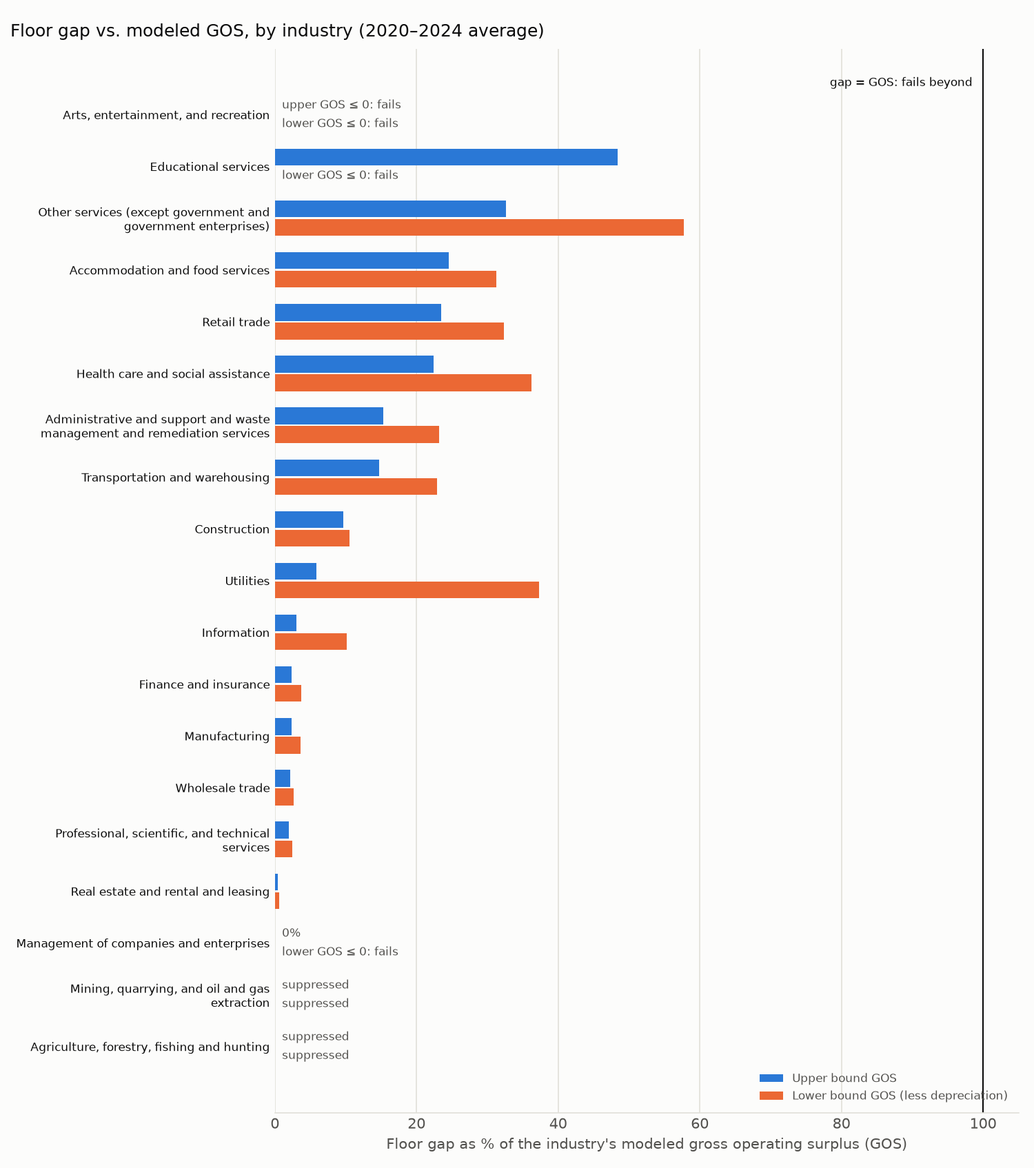
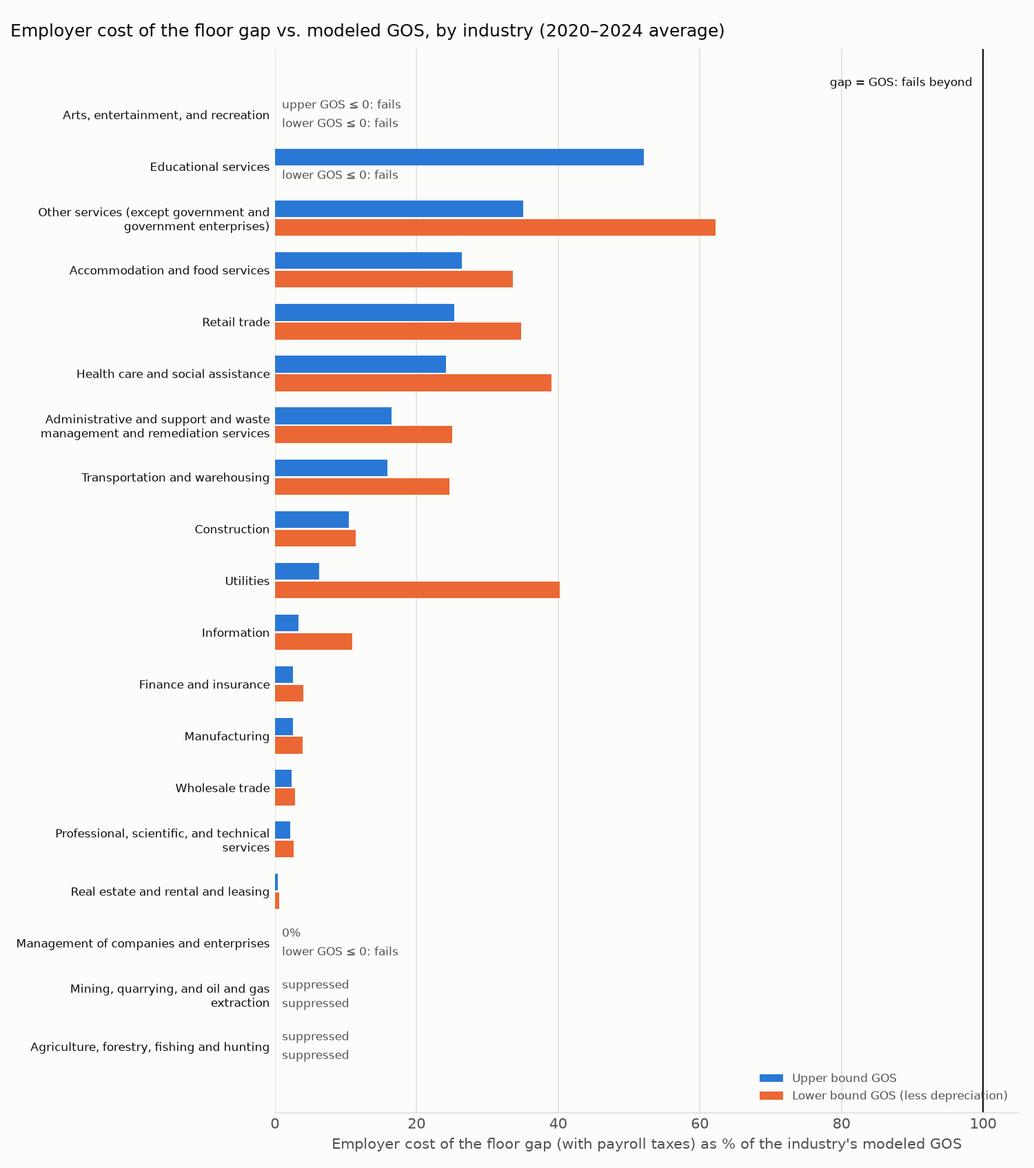
capacity: compare employer cost (gap + employer payroll taxes) with GDP, compensation and GOS
Compensation and GOS both include the employer's Social Security and Medicare
share, so a raise costs employers gap * (1 + capacity.employer_payroll_tax_rate).
Applied to the GDP/compensation/GOS ratios, the self-funding test, the GOS tests,
and the price pass-through. The wage-disbursement ratio and the worker gaps stay
unloaded. No pass/fail result changes.

Claude-Session: https://claude.ai/code/session_01WkMnkM78V3hXWVEUPjjTwT

diff --git a/src/nola_lw/report/results.py b/src/nola_lw/report/results.py
@@ -108,17 +108,20 @@ def headline(ctx: dict) -> tuple[str, list[str]]:
             f"workers whose job is in Orleans Parish ({f.pct(*ps['share_below'])}) earned less than the MIT living-wage "
             f"floor ({_household_label(cfg['mit']['floor_type'])}), ${ctx['floor']:.2f} an hour in {charts.price_month(cfg)} dollars. "
             f"Raising each of them to that floor for the hours they actually work would cost {f.usd(*ps['total_gap'])} "
-            f"a year. That is {f.pct(tot['gap_gdp'], tot['gap_gdp_se'])} of Orleans GDP, "
-            f"{f.pct(tot['gap_comp'], tot['gap_comp_se'])} of employee compensation and "
-            f"{f.pct(tot['gap_wages'], tot['gap_wages_se'])} of wage and salary disbursements. "
+            f"a year, {f.pct(tot['gap_wages'], tot['gap_wages_se'])} of wage and salary disbursements. With the "
+            f"employer's share of payroll taxes ({cfg['capacity']['employer_payroll_tax_rate']:.2%}), the cost to "
+            f"employers is {f.usd(tot['cost'], tot['cost_se'])} a year: "
+            f"{f.pct(tot['gap_gdp'], tot['gap_gdp_se'])} of Orleans GDP and "
+            f"{f.pct(tot['gap_comp'], tot['gap_comp_se'])} of employee compensation. "
+            f"Every comparison below uses that employer cost. "
             f"Against modeled gross operating surplus (GOS, upper bound; lower bound nets out depreciation): "
-            f"(a) the private and nonprofit gap is {f.pct(*gt['private_upper'])} of private-industry GOS "
-            f"({f.pct(*gt['private_lower'])} at the lower bound), and (b) the all-sector gap is "
+            f"(a) the private and nonprofit employer cost is {f.pct(*gt['private_upper'])} of private-industry GOS "
+            f"({f.pct(*gt['private_lower'])} at the lower bound), and (b) the all-sector employer cost is "
             f"{f.pct(*gt['total_upper'])} of total GOS ({f.pct(*gt['total_lower'])} at the lower bound). "
             f"Excluding {labels[cfg['capacity']['imputed_rent_line']].lower()}, whose GOS includes imputed rent on "
             f"owner-occupied housing, (b) is {f.pct(*gt['total_upper_ex'])} ({f.pct(*gt['total_lower_ex'])} at the "
             f"lower bound). "
-            f"The government workers' gap would be a {f.pct(*gt['government'])} raise to government compensation. ")
+            f"The government workers' employer cost would be a {f.pct(*gt['government'])} raise to government compensation. ")
 
     fails = _failures(cap, labels)
     if fails:
@@ -139,7 +142,7 @@ def headline(ctx: dict) -> tuple[str, list[str]]:
                 mark += "[^gos-low]"
             which = {"both": "both bounds", "upper": "upper bound only", "lower": "lower bound only"}[bound]
             items.append(f"{labels[line]} ({which}){mark}")
-        text += (f"By the self-funding test (an industry fails when its gap exceeds its own GOS), "
+        text += (f"By the self-funding test (an industry fails when its employer cost exceeds its own GOS), "
                  f"{len(fails)} {'industry fails' if len(fails) == 1 else 'industries fail'}: {_join(items)}. ")
         if neg_low:
             gaps = "; ".join(f"{labels[ln]} gap {f.usd(_row(cap, 'line', ln)['gap'])}" for ln in neg_low)
@@ -151,7 +154,7 @@ def headline(ctx: dict) -> tuple[str, list[str]]:
     for line in cfg["report"]["spec_expected_fail"]:
         r = _row(cap, "line", line)
         if r is not None and r["self_funding"] == "pass" and r["self_funding_low"] == "pass":
-            text += (f"{labels[line]}, which SPEC §6 expected to fail, passes both bounds: its gap is "
+            text += (f"{labels[line]}, which SPEC §6 expected to fail, passes both bounds: its employer cost is "
                      f"{f.pct(r['gap_gos'], r['gap_gos_se'])} of its upper-bound GOS and "
                      f"{f.pct(r['gap_gos_low'], r['gap_gos_low_se'])} of its lower bound. ")
     supp = [labels[ln] for ln in labels if (r := _row(cap, "line", ln)) and r["self_funding"] == "suppressed"]
@@ -246,20 +249,24 @@ def _tables(ctx: dict) -> str:
 
     def rat(r, c):
         return f.pct(r[c], r[f"{c}_se"])
-    rows = [["All-sector gap ÷ GDP", rat(tp, "gap_gdp"), rat(ts, "gap_gdp")],
-            ["All-sector gap ÷ employee compensation", rat(tp, "gap_comp"), rat(ts, "gap_comp")],
+    rows = [["All-sector employer cost ÷ GDP", rat(tp, "gap_gdp"), rat(ts, "gap_gdp")],
+            ["All-sector employer cost ÷ employee compensation", rat(tp, "gap_comp"), rat(ts, "gap_comp")],
             ["All-sector gap ÷ wage and salary disbursements", rat(tp, "gap_wages"), rat(ts, "gap_wages")]]
-    for key, name in [("private_upper", "(a) Private + nonprofit gap ÷ private GOS, upper bound"),
-                      ("private_lower", "(a) Private + nonprofit gap ÷ private GOS, lower bound"),
-                      ("total_upper", "(b) All-sector gap ÷ total GOS, upper bound"),
-                      ("total_lower", "(b) All-sector gap ÷ total GOS, lower bound"),
+    for key, name in [("private_upper", "(a) Private + nonprofit employer cost ÷ private GOS, upper bound"),
+                      ("private_lower", "(a) Private + nonprofit employer cost ÷ private GOS, lower bound"),
+                      ("total_upper", "(b) All-sector employer cost ÷ total GOS, upper bound"),
+                      ("total_lower", "(b) All-sector employer cost ÷ total GOS, lower bound"),
                       ("private_upper_ex", f"(a) excluding {rent_label}, upper bound"),
                       ("private_lower_ex", f"(a) excluding {rent_label}, lower bound"),
                       ("total_upper_ex", f"(b) excluding {rent_label}, upper bound"),
                       ("total_lower_ex", f"(b) excluding {rent_label}, lower bound"),
-                      ("government", "Government gap ÷ government compensation")]:
+                      ("government", "Government employer cost ÷ government compensation")]:
         rows.append([name, *_two(f.pct, p["gos_tests"], s["gos_tests"], key)])
     out.append(_table(["Ratio", yp, ys], rows))
+    out.append(f"\nEmployer cost is the gap plus the employer's share of payroll taxes "
+               f"({cfg['capacity']['employer_payroll_tax_rate']:.2%}); GDP, compensation and GOS all include those taxes. "
+               "Wage and salary disbursements do not, so that row uses the gap alone. Rows (a), (b) and government use "
+               "employer cost.\n")
     out.append(f"\n\"Excluding {rent_label}\" removes that industry's gap from the numerator and its GOS from the "
                "denominator: its GOS includes imputed rent on owner-occupied housing.\n")
     out.append(f"\nBEA denominators (average year, {charts.price_month(cfg)} dollars; place of work):\n")
@@ -276,7 +283,8 @@ def _tables(ctx: dict) -> str:
 
     # 4. industries
     out.append("\n## 4. Industries and the self-funding test\n")
-    out.append("An industry fails when its gap exceeds its own modeled GOS. The government line is excluded from "
+    out.append("An industry fails when its employer cost (gap plus employer payroll taxes) exceeds its own modeled GOS. "
+               "The ÷ columns use employer cost. The government line is excluded from "
                "the test (\"n/a\"; its BEA GOS is only depreciation) but its gap and gap ÷ compensation (payroll "
                "share) are shown.\n\n")
     rows = []

diff --git a/src/nola_lw/analysis/capacity.py b/src/nola_lw/analysis/capacity.py
@@ -174,28 +174,29 @@ def gap_by_line(u: pl.DataFrame, cfg) -> pl.DataFrame:
     return pl.concat([by_line, extra])
 
 
-def capacity_table(gap_by_line: pl.DataFrame, panel_mean: pl.DataFrame, gov_line: str) -> pl.DataFrame:
-    """One row per line: gap, gap_se, gdp, comp, gos, gos_low, gap_gdp/comp/gos/gos_low/wages (each
-    with its own _se = gap_se/denominator; null, not inf or sign-inverted, when the denominator is
-    <= 0), and self_funding / self_funding_low in {"pass", "fail", "suppressed", "no sample",
-    "n/a" (`gov_line`)}. "no sample" means no PUMS-observed gap for that line (a null after the
-    join), distinct from "suppressed" (a null GOS from a flagged BEA cell)."""
-    df = panel_mean.join(gap_by_line, on="line", how="left")
+def capacity_table(gap_by_line: pl.DataFrame, panel_mean: pl.DataFrame, gov_line: str,
+                   load: float = 0.0) -> pl.DataFrame:
+    """One row per line: gap, gap_se, cost (= gap * (1 + `load`), the employer's cost including its
+    payroll taxes, `capacity.employer_payroll_tax_rate`), gdp, comp, gos, gos_low,
+    gap_gdp/comp/gos/gos_low (cost / denominator, since compensation and GOS both include employer
+    payroll taxes) and gap_wages (gap / wages, since wages exclude them), each with its own _se;
+    null, not inf or sign-inverted, when the denominator is <= 0. self_funding / self_funding_low
+    in {"pass", "fail", "suppressed", "no sample", "n/a" (`gov_line`)} compare cost with GOS.
+    "no sample" means no PUMS-observed gap for that line (a null after the join), distinct from
+    "suppressed" (a null GOS from a flagged BEA cell)."""
+    df = panel_mean.join(gap_by_line, on="line", how="left").with_columns(
+        cost=pl.col("gap") * (1 + load), cost_se=pl.col("gap_se") * (1 + load))
 
-    def ratio(denom_col: str) -> pl.Expr:
+    def ratio(num: str, denom_col: str) -> pl.Expr:
         valid = pl.col(denom_col) > 0
-        return pl.when(valid).then(pl.col("gap") / pl.col(denom_col)).otherwise(None)
-
-    def ratio_se(denom_col: str) -> pl.Expr:
-        valid = pl.col(denom_col) > 0
-        return pl.when(valid).then(pl.col("gap_se") / pl.col(denom_col)).otherwise(None)
+        return pl.when(valid).then(pl.col(num) / pl.col(denom_col)).otherwise(None)
 
     df = df.with_columns(
-        gap_gdp=ratio("gdp"), gap_gdp_se=ratio_se("gdp"),
-        gap_comp=ratio("comp"), gap_comp_se=ratio_se("comp"),
-        gap_gos=ratio("gos"), gap_gos_se=ratio_se("gos"),
-        gap_gos_low=ratio("gos_low"), gap_gos_low_se=ratio_se("gos_low"),
-        gap_wages=ratio("wages"), gap_wages_se=ratio_se("wages"),
+        gap_gdp=ratio("cost", "gdp"), gap_gdp_se=ratio("cost_se", "gdp"),
+        gap_comp=ratio("cost", "comp"), gap_comp_se=ratio("cost_se", "comp"),
+        gap_gos=ratio("cost", "gos"), gap_gos_se=ratio("cost_se", "gos"),
+        gap_gos_low=ratio("cost", "gos_low"), gap_gos_low_se=ratio("cost_se", "gos_low"),
+        gap_wages=ratio("gap", "wages"), gap_wages_se=ratio("gap_se", "wages"),
     )
 
     def _status(gos_col: str) -> pl.Expr:
@@ -203,7 +204,7 @@ def capacity_table(gap_by_line: pl.DataFrame, panel_mean: pl.DataFrame, gov_line
                   .when(pl.col("gap").is_null()).then(pl.lit("no sample"))
                   .when(pl.col(gos_col).is_null()).then(pl.lit("suppressed"))
                   .when(pl.col("gap") == 0).then(pl.lit("pass"))  # nothing to fund, whatever the GOS
-                  .when(pl.col("gap") <= pl.col(gos_col)).then(pl.lit("pass"))
+                  .when(pl.col("cost") <= pl.col(gos_col)).then(pl.lit("pass"))
                   .otherwise(pl.lit("fail")))
     return df.with_columns(self_funding=_status("gos"), self_funding_low=_status("gos_low"))
 
@@ -213,8 +214,10 @@ def gos_tests(u: pl.DataFrame, panel_mean: pl.DataFrame, cfg) -> dict[str, tuple
     (upper, lower); government gap / government (`crosswalk.gov_line`) compensation; and "*_ex" for
     (a), (b) with the `capacity.imputed_rent_line` (real estate, whose GOS includes imputed rent on
     owner-occupied housing) removed from both gap and GOS. Each ratio is null (not inf or
-    sign-inverted) when its denominator is null or <= 0."""
+    sign-inverted) when its denominator is null or <= 0. Each numerator is the employer's cost, the
+    gap * (1 + `capacity.employer_payroll_tax_rate`)."""
     gov_line, rent_line = cfg["crosswalk"]["gov_line"], cfg["capacity"]["imputed_rent_line"]
+    load = 1 + cfg["capacity"]["employer_payroll_tax_rate"]
 
     def denom(line: str, col: str, ex: bool = False) -> float | None:
         d = panel_mean.filter(pl.col("line") == line)[col][0]
@@ -227,7 +230,7 @@ def gos_tests(u: pl.DataFrame, panel_mean: pl.DataFrame, cfg) -> dict[str, tuple
         if d is None or d <= 0:
             return None, None
         est, se = est_se
-        return est / d, se / d
+        return est * load / d, se * load / d
 
     private_gap = floor_summary(u.filter(pl.col("cow_class").is_in(_private_classes(cfg))))["total_gap"]
     total_gap = floor_summary(u)["total_gap"]

diff --git a/tests/test_capacity.py b/tests/test_capacity.py
@@ -248,7 +248,7 @@ def test_gap_by_line_uses_config_private_classes():
 
 
 def test_gos_tests_nulls_ratio_for_nonpositive_denominator():
-    cfg = {"crosswalk": {"gov_line": "83"}, "capacity": {"imputed_rent_line": "56"},
+    cfg = {"crosswalk": {"gov_line": "83"}, "capacity": {"imputed_rent_line": "56", "employer_payroll_tax_rate": 0.0},
            "universe": {"cow_class": {"1": "private", "2": "nonprofit", "3": "public"}}}
     u = pl.DataFrame({
         "cow_class": ["private", "public"], "bea_line": ["11", "83"],
@@ -289,7 +289,7 @@ def test_zero_gap_with_suppressed_gos_stays_suppressed():
 
 def test_gos_tests_ex_imputed_rent_line():
     """Ex-real-estate tests drop the line's gap from the numerator and its GOS from the denominator."""
-    cfg = {"crosswalk": {"gov_line": "83"}, "capacity": {"imputed_rent_line": "56"},
+    cfg = {"crosswalk": {"gov_line": "83"}, "capacity": {"imputed_rent_line": "56", "employer_payroll_tax_rate": 0.0},
            "universe": {"cow_class": {"1": "private", "3": "public"}}}
     u = pl.DataFrame({
         "cow_class": ["private", "private", "public"], "bea_line": ["11", "56", "83"],
@@ -306,3 +306,36 @@ def test_gos_tests_ex_imputed_rent_line():
     assert out["private_lower_ex"][0] == pytest.approx(10e3 / 100e3)
     assert out["total_upper_ex"][0] == pytest.approx(20e3 / 400e3)
     assert out["total_lower_ex"][0] == pytest.approx(20e3 / 100e3)
+
+
+def test_capacity_table_loads_employer_payroll_tax_except_wages():
+    """Employer cost = gap * (1 + load) against GDP, comp and GOS (and the pass/fail test); wages stay unloaded."""
+    panel_mean = pl.DataFrame({"line": ["64"], "gdp": [1000.0], "comp": [500.0], "tax_ratio": [0.0],
+                               "cfc_share": [0.0], "gos": [105.0], "gos_low": [105.0], "wages": [400.0]},
+                              schema=PANEL_SCHEMA)
+    gap_by_line = pl.DataFrame({"line": ["64"], "gap": [100.0], "gap_se": [10.0]})
+    row = capacity.capacity_table(gap_by_line, panel_mean, "83", load=0.1).row(0, named=True)
+    assert row["cost"] == pytest.approx(110.0)
+    assert row["gap_gdp"] == pytest.approx(0.11) and row["gap_gdp_se"] == pytest.approx(0.011)
+    assert row["gap_comp"] == pytest.approx(0.22)
+    assert row["gap_gos"] == pytest.approx(110.0 / 105.0)
+    assert row["gap_wages"] == pytest.approx(0.25) and row["gap_wages_se"] == pytest.approx(0.025)
+    assert row["self_funding"] == "fail"  # 100 <= 105 but 110 > 105
+
+
+def test_gos_tests_load_employer_payroll_tax():
+    cfg = {"crosswalk": {"gov_line": "83"}, "capacity": {"imputed_rent_line": "56", "employer_payroll_tax_rate": 0.1},
+           "universe": {"cow_class": {"1": "private", "3": "public"}}}
+    u = pl.DataFrame({
+        "cow_class": ["private", "public"], "bea_line": ["11", "83"],
+        "wage_hr": [10.0] * 2, "hours": [2000.0] * 2,
+        "below": [True] * 2, "gap_hr": [5.0] * 2, "gap_yr": [10000.0, 10000.0],
+        "PWGTP": [1, 1],
+    } | {f"PWGTP{i}": [1, 1] for i in range(1, 81)})
+    panel_mean = pl.DataFrame({"line": ["private", "total", "83", "56"], "gos": [100e3, 100e3, 1.0, 1.0],
+                               "gos_low": [50e3, 50e3, 0.0, 0.0], "comp": [None, None, 1e6, None]},
+                              schema={"line": pl.Utf8, "gos": pl.Float64, "gos_low": pl.Float64, "comp": pl.Float64})
+    out = capacity.gos_tests(u, panel_mean, cfg)
+    assert out["private_upper"][0] == pytest.approx(11e3 / 100e3)
+    assert out["total_lower"][0] == pytest.approx(22e3 / 50e3)
+    assert out["government"][0] == pytest.approx(11e3 / 1e6)

diff --git a/src/nola_lw/analysis/sensitivity.py b/src/nola_lw/analysis/sensitivity.py
@@ -98,8 +98,9 @@ def run_sensitivities(u_typed: pl.DataFrame, bea_ctx: dict, cfg, u_self: pl.Data
     bases = spending_bases(bea_ctx["bea"], bea_ctx["cpi_json"], cfg, years)
     for p in cfg["decisions"]["passthrough_p"]:
         for base_name, base_val in bases.items():
-            def gap_at(f: float, floor: float = floor) -> float:
-                return floor_summary(add_floor_gap(headline_u, floor * f))["total_gap"][0]
+            def gap_at(f: float, floor: float = floor) -> float:  # employer cost, with its payroll taxes
+                return (floor_summary(add_floor_gap(headline_u, floor * f))["total_gap"][0]
+                        * (1 + cfg["capacity"]["employer_payroll_tax_rate"]))
             factor = passthrough_factor(gap_at, base_val, p, sens["passthrough_tol"], sens["passthrough_max_iter"])
             summary = floor_summary(add_floor_gap(headline_u, floor * factor))
             rows.append(_row("passthrough", f"p={p} base={base_name}", summary, factor))

diff --git a/src/nola_lw/report/charts.py b/src/nola_lw/report/charts.py
@@ -72,9 +72,9 @@ def gap_vs_gos(capacity: pl.DataFrame, labels: dict[str, str], cfg, out: Path = 
     ax.text(99, df.height - 0.5, "gap = GOS: fails beyond ", fontsize=8, color=INK, va="bottom", ha="right")
     ax.set_yticks(list(y), df["label"].to_list(), fontsize=8, color=INK)
     ax.set_xlim(0, ratio_axis_max(df))
-    ax.set_xlabel("Floor gap as % of the industry's modeled gross operating surplus (GOS)", color=INK2)
+    ax.set_xlabel("Employer cost of the floor gap (with payroll taxes) as % of the industry's modeled GOS", color=INK2)
     ax.legend(loc="lower right", frameon=False, fontsize=8, labelcolor=INK2)
-    fig.suptitle(f"Floor gap vs. modeled GOS, by industry ({_years(cfg)} average)", x=0.01, ha="left", color=INK)
+    fig.suptitle(f"Employer cost of the floor gap vs. modeled GOS, by industry ({_years(cfg)} average)", x=0.01, ha="left", color=INK)
     fig.tight_layout()
     path = out / "gap_vs_gos.png"
     fig.savefig(path, dpi=150, facecolor=SURFACE)

diff --git a/src/nola_lw/pipeline.py b/src/nola_lw/pipeline.py
@@ -38,7 +38,8 @@ def _window(u: pl.DataFrame, panel: pl.DataFrame, thresholds: dict, years: list[
         "by_cow": summary_by(g, "cow_class"),
         "leakage": leakage(g),
         "households": household_table(sub, thresholds, cfg["mit"]["hours_full_time"], floor_type),
-        "capacity": cap.capacity_table(cap.gap_by_line(g, cfg), pm, cfg["crosswalk"]["gov_line"]),
+        "capacity": cap.capacity_table(cap.gap_by_line(g, cfg), pm, cfg["crosswalk"]["gov_line"],
+                                       cfg["capacity"]["employer_payroll_tax_rate"]),
         "gos_tests": cap.gos_tests(g, pm, cfg),
     }
 

diff --git a/data/out/results.md b/data/out/results.md
@@ -4,7 +4,7 @@ Place of work, ACS PUMS 2020–2024 (average year) with 2022–2024 alongside; M
 
 ## Headline
 
-In 2020–2024 (an average year), 72,897 ± 3,050 of the 195,275 ± 4,502 wage and salary workers whose job is in Orleans Parish (37.3% ± 1.2 pp) earned less than the MIT living-wage floor (1 adult, 0 children), $20.29 an hour in December 2025 dollars. Raising each of them to that floor for the hours they actually work would cost $953.9M ± $53.8M a year. That is 3.1% ± 0.2 pp of Orleans GDP, 5.4% ± 0.3 pp of employee compensation and 6.5% ± 0.4 pp of wage and salary disbursements. Against modeled gross operating surplus (GOS, upper bound; lower bound nets out depreciation): (a) the private and nonprofit gap is 7.9% ± 0.5 pp of private-industry GOS (11.9% ± 0.7 pp at the lower bound), and (b) the all-sector gap is 8.3% ± 0.5 pp of total GOS (13.6% ± 0.8 pp at the lower bound). Excluding real estate and rental and leasing, whose GOS includes imputed rent on owner-occupied housing, (b) is 11.4% ± 0.7 pp (20.0% ± 1.2 pp at the lower bound). The government workers' gap would be a 3.0% ± 0.4 pp raise to government compensation. By the self-funding test (an industry fails when its gap exceeds its own GOS), 2 industries fail: Educational services (lower bound only)[^gos-low] and Arts, entertainment, and recreation (both bounds)[^gos-76][^gos-low]. Accommodation and food services, which SPEC §6 expected to fail, passes both bounds: its gap is 24.6% ± 2.9 pp of its upper-bound GOS and 31.2% ± 3.6 pp of its lower bound. Agriculture, forestry, fishing and hunting and Mining, quarrying, and oil and gas extraction cannot be tested because BEA suppresses a needed cell. The same industries fail on 2022–2024 averages. The 2022–2024 window gives 75,843 ± 3,792 workers below the floor and a $962.7M ± $63.3M gap. Paired on the same replicate weights (the windows share data), 2020–2024 minus 2022–2024 is −2,946 ± 2,223 workers below the floor (beyond its 90% MOE), −0.5 pp ± 0.9 pp in the share below (within its 90% MOE) and −$8.8M ± $42.0M in the total gap (within its 90% MOE), so the windows differ on workers below the floor but not on the share below or the total gap. Survey-reported wages for this universe fall 10.3% short of BEA wage and salary disbursements (3.9% short like-for-like, counting salaries that owners of incorporated businesses pay themselves, as BEA does); to the extent the survey under-reports pay, the gap is overstated. Measured instead as annual earnings against the floor × 2,080 hours, the gap is $1,639.3M ± $66.1M, $685.4M above the headline: 12.7 times the headline's MOE.
+In 2020–2024 (an average year), 72,897 ± 3,050 of the 195,275 ± 4,502 wage and salary workers whose job is in Orleans Parish (37.3% ± 1.2 pp) earned less than the MIT living-wage floor (1 adult, 0 children), $20.29 an hour in December 2025 dollars. Raising each of them to that floor for the hours they actually work would cost $953.9M ± $53.8M a year, 6.5% ± 0.4 pp of wage and salary disbursements. With the employer's share of payroll taxes (7.65%), the cost to employers is $1,026.9M ± $58.0M a year: 3.3% ± 0.2 pp of Orleans GDP and 5.8% ± 0.3 pp of employee compensation. Every comparison below uses that employer cost. Against modeled gross operating surplus (GOS, upper bound; lower bound nets out depreciation): (a) the private and nonprofit employer cost is 8.5% ± 0.5 pp of private-industry GOS (12.9% ± 0.8 pp at the lower bound), and (b) the all-sector employer cost is 8.9% ± 0.5 pp of total GOS (14.6% ± 0.8 pp at the lower bound). Excluding real estate and rental and leasing, whose GOS includes imputed rent on owner-occupied housing, (b) is 12.3% ± 0.7 pp (21.6% ± 1.2 pp at the lower bound). The government workers' employer cost would be a 3.2% ± 0.5 pp raise to government compensation. By the self-funding test (an industry fails when its employer cost exceeds its own GOS), 2 industries fail: Educational services (lower bound only)[^gos-low] and Arts, entertainment, and recreation (both bounds)[^gos-76][^gos-low]. Accommodation and food services, which SPEC §6 expected to fail, passes both bounds: its employer cost is 26.4% ± 3.1 pp of its upper-bound GOS and 33.6% ± 3.9 pp of its lower bound. Agriculture, forestry, fishing and hunting and Mining, quarrying, and oil and gas extraction cannot be tested because BEA suppresses a needed cell. The same industries fail on 2022–2024 averages. The 2022–2024 window gives 75,843 ± 3,792 workers below the floor and a $962.7M ± $63.3M gap. Paired on the same replicate weights (the windows share data), 2020–2024 minus 2022–2024 is −2,946 ± 2,223 workers below the floor (beyond its 90% MOE), −0.5 pp ± 0.9 pp in the share below (within its 90% MOE) and −$8.8M ± $42.0M in the total gap (within its 90% MOE), so the windows differ on workers below the floor but not on the share below or the total gap. Survey-reported wages for this universe fall 10.3% short of BEA wage and salary disbursements (3.9% short like-for-like, counting salaries that owners of incorporated businesses pay themselves, as BEA does); to the extent the survey under-reports pay, the gap is overstated. Measured instead as annual earnings against the floor × 2,080 hours, the gap is $1,639.3M ± $66.1M, $685.4M above the headline: 12.7 times the headline's MOE.
 
 Reading the tables: "—" means not defined[^dash]; "suppressed" means BEA withheld a needed cell; "no sample" means no survey workers in that group. No unknown value is printed as 0.
 
@@ -48,18 +48,21 @@ By class of worker:
 
 | Ratio | 2020–2024 | 2022–2024 |
 |---|---:|---:|
-| All-sector gap ÷ GDP | 3.1% ± 0.2 pp | 3.1% ± 0.2 pp |
-| All-sector gap ÷ employee compensation | 5.4% ± 0.3 pp | 5.5% ± 0.4 pp |
+| All-sector employer cost ÷ GDP | 3.3% ± 0.2 pp | 3.3% ± 0.2 pp |
+| All-sector employer cost ÷ employee compensation | 5.8% ± 0.3 pp | 5.9% ± 0.4 pp |
 | All-sector gap ÷ wage and salary disbursements | 6.5% ± 0.4 pp | 6.6% ± 0.4 pp |
-| (a) Private + nonprofit gap ÷ private GOS, upper bound | 7.9% ± 0.5 pp | 7.7% ± 0.5 pp |
-| (a) Private + nonprofit gap ÷ private GOS, lower bound | 11.9% ± 0.7 pp | 11.5% ± 0.8 pp |
-| (b) All-sector gap ÷ total GOS, upper bound | 8.3% ± 0.5 pp | 8.2% ± 0.5 pp |
-| (b) All-sector gap ÷ total GOS, lower bound | 13.6% ± 0.8 pp | 13.3% ± 0.9 pp |
-| (a) excluding Real estate and rental and leasing, upper bound | 11.2% ± 0.7 pp | 10.8% ± 0.8 pp |
-| (a) excluding Real estate and rental and leasing, lower bound | 17.6% ± 1.1 pp | 16.9% ± 1.2 pp |
-| (b) excluding Real estate and rental and leasing, upper bound | 11.4% ± 0.7 pp | 11.3% ± 0.8 pp |
-| (b) excluding Real estate and rental and leasing, lower bound | 20.0% ± 1.2 pp | 19.5% ± 1.3 pp |
-| Government gap ÷ government compensation | 3.0% ± 0.4 pp | 3.5% ± 0.6 pp |
+| (a) Private + nonprofit employer cost ÷ private GOS, upper bound | 8.5% ± 0.5 pp | 8.2% ± 0.6 pp |
+| (a) Private + nonprofit employer cost ÷ private GOS, lower bound | 12.9% ± 0.8 pp | 12.4% ± 0.9 pp |
+| (b) All-sector employer cost ÷ total GOS, upper bound | 8.9% ± 0.5 pp | 8.8% ± 0.6 pp |
+| (b) All-sector employer cost ÷ total GOS, lower bound | 14.6% ± 0.8 pp | 14.3% ± 0.9 pp |
+| (a) excluding Real estate and rental and leasing, upper bound | 12.0% ± 0.8 pp | 11.7% ± 0.8 pp |
+| (a) excluding Real estate and rental and leasing, lower bound | 18.9% ± 1.2 pp | 18.1% ± 1.3 pp |
+| (b) excluding Real estate and rental and leasing, upper bound | 12.3% ± 0.7 pp | 12.2% ± 0.8 pp |
+| (b) excluding Real estate and rental and leasing, lower bound | 21.6% ± 1.2 pp | 21.0% ± 1.4 pp |
+| Government employer cost ÷ government compensation | 3.2% ± 0.5 pp | 3.8% ± 0.7 pp |
+
+
+Employer cost is the gap plus the employer's share of payroll taxes (7.65%); GDP, compensation and GOS all include those taxes. Wage and salary disbursements do not, so that row uses the gap alone. Rows (a), (b) and government use employer cost.
 
 
 "Excluding Real estate and rental and leasing" removes that industry's gap from the numerator and its GOS from the denominator: its GOS includes imputed rent on owner-occupied housing.
@@ -78,31 +81,31 @@ BEA denominators (average year, December 2025 dollars; place of work):
 
 ## 4. Industries and the self-funding test
 
-An industry fails when its gap exceeds its own modeled GOS. The government line is excluded from the test ("n/a"; its BEA GOS is only depreciation) but its gap and gap ÷ compensation (payroll share) are shown.
+An industry fails when its employer cost (gap plus employer payroll taxes) exceeds its own modeled GOS. The ÷ columns use employer cost. The government line is excluded from the test ("n/a"; its BEA GOS is only depreciation) but its gap and gap ÷ compensation (payroll share) are shown.
 
 
 | Industry (CAGDP2) | Below 2020–2024 | Gap 2020–2024 | Gap 2022–2024 | Gap ÷ comp 2020–2024 | Gap ÷ GOS upper 2020–2024 | Gap ÷ GOS lower 2020–2024 | Self-funding upper / lower 2020–2024 | Self-funding upper / lower 2022–2024 |
 |---|---:|---:|---:|---:|---:|---:|---:|---:|
 | Agriculture, forestry, fishing and hunting | 75 ± 50 | $1.1M ± $0.9M | $1.5M ± $1.5M | suppressed | suppressed | suppressed | suppressed / suppressed | suppressed / suppressed |
 | Mining, quarrying, and oil and gas extraction | 222 ± 236 | $1.1M ± $1.5M | $0.1M ± $0.1M | suppressed | suppressed | suppressed | suppressed / suppressed | suppressed / suppressed |
-| Utilities | 236 ± 174 | $2.4M ± $2.1M | $3.1M ± $3.4M | 4.3% ± 3.7 pp | 5.8% ± 4.9 pp | 37.3% ± 31.4 pp | pass / pass | pass / pass |
-| Construction | 3,923 ± 710 | $55.5M ± $14.6M | $55.5M ± $17.5M | 13.8% ± 3.6 pp | 9.7% ± 2.5 pp | 10.6% ± 2.8 pp | pass / pass | pass / pass |
-| Manufacturing | 1,577 ± 345 | $23.2M ± $6.8M | $26.7M ± $9.7M | 4.4% ± 1.3 pp | 2.4% ± 0.7 pp | 3.6% ± 1.1 pp | pass / pass | pass / pass |
-| Wholesale trade | 830 ± 374 | $8.6M ± $4.2M | $11.1M ± $6.5M | 2.2% ± 1.1 pp | 2.2% ± 1.1 pp | 2.6% ± 1.3 pp | pass / pass | pass / pass |
-| Retail trade | 8,464 ± 1,120 | $115.9M ± $21.4M | $103.6M ± $19.1M | 17.6% ± 3.2 pp | 23.5% ± 4.3 pp | 32.3% ± 6.0 pp | pass / pass | pass / pass |
-| Transportation and warehousing | 3,445 ± 771 | $59.9M ± $16.8M | $66.3M ± $23.1M | 10.0% ± 2.8 pp | 14.7% ± 4.1 pp | 22.9% ± 6.4 pp | pass / pass | pass / pass |
-| Information | 972 ± 315 | $13.7M ± $5.5M | $11.3M ± $6.0M | 2.9% ± 1.2 pp | 3.1% ± 1.2 pp | 10.1% ± 4.1 pp | pass / pass | pass / pass |
-| Finance and insurance | 1,600 ± 423 | $15.8M ± $4.9M | $15.3M ± $6.9M | 1.7% ± 0.5 pp | 2.4% ± 0.7 pp | 3.7% ± 1.1 pp | pass / pass | pass / pass |
-| Real estate and rental and leasing | 1,130 ± 458 | $13.2M ± $6.0M | $7.0M ± $5.3M | 5.9% ± 2.7 pp | 0.4% ± 0.2 pp | 0.6% ± 0.3 pp | pass / pass | pass / pass |
-| Professional, scientific, and technical services | 2,329 ± 474 | $30.2M ± $8.0M | $38.4M ± $12.8M | 1.5% ± 0.4 pp | 2.0% ± 0.5 pp | 2.5% ± 0.7 pp | pass / pass | pass / pass |
+| Utilities | 236 ± 174 | $2.4M ± $2.1M | $3.1M ± $3.4M | 4.7% ± 3.9 pp | 6.3% ± 5.3 pp | 40.2% ± 33.8 pp | pass / pass | pass / pass |
+| Construction | 3,923 ± 710 | $55.5M ± $14.6M | $55.5M ± $17.5M | 14.9% ± 3.9 pp | 10.4% ± 2.7 pp | 11.4% ± 3.0 pp | pass / pass | pass / pass |
+| Manufacturing | 1,577 ± 345 | $23.2M ± $6.8M | $26.7M ± $9.7M | 4.7% ± 1.4 pp | 2.5% ± 0.7 pp | 3.9% ± 1.1 pp | pass / pass | pass / pass |
+| Wholesale trade | 830 ± 374 | $8.6M ± $4.2M | $11.1M ± $6.5M | 2.3% ± 1.1 pp | 2.4% ± 1.2 pp | 2.8% ± 1.4 pp | pass / pass | pass / pass |
+| Retail trade | 8,464 ± 1,120 | $115.9M ± $21.4M | $103.6M ± $19.1M | 18.9% ± 3.5 pp | 25.3% ± 4.7 pp | 34.8% ± 6.4 pp | pass / pass | pass / pass |
+| Transportation and warehousing | 3,445 ± 771 | $59.9M ± $16.8M | $66.3M ± $23.1M | 10.7% ± 3.0 pp | 15.9% ± 4.4 pp | 24.7% ± 6.9 pp | pass / pass | pass / pass |
+| Information | 972 ± 315 | $13.7M ± $5.5M | $11.3M ± $6.0M | 3.1% ± 1.2 pp | 3.3% ± 1.3 pp | 10.9% ± 4.4 pp | pass / pass | pass / pass |
+| Finance and insurance | 1,600 ± 423 | $15.8M ± $4.9M | $15.3M ± $6.9M | 1.8% ± 0.6 pp | 2.5% ± 0.8 pp | 4.0% ± 1.2 pp | pass / pass | pass / pass |
+| Real estate and rental and leasing | 1,130 ± 458 | $13.2M ± $6.0M | $7.0M ± $5.3M | 6.4% ± 2.9 pp | 0.4% ± 0.2 pp | 0.6% ± 0.3 pp | pass / pass | pass / pass |
+| Professional, scientific, and technical services | 2,329 ± 474 | $30.2M ± $8.0M | $38.4M ± $12.8M | 1.6% ± 0.4 pp | 2.1% ± 0.6 pp | 2.7% ± 0.7 pp | pass / pass | pass / pass |
 | Management of companies and enterprises | 0 ± 0 | $0.0M ± $0.0M | $0.0M ± $0.0M | 0.0% ± 0.0 pp | 0.0% ± 0.0 pp | — | pass / pass | pass / pass |
-| Administrative and support and waste management and remediation services | 3,020 ± 508 | $36.4M ± $8.2M | $35.9M ± $9.9M | 4.5% ± 1.0 pp | 15.3% ± 3.4 pp | 23.2% ± 5.2 pp | pass / pass | pass / pass |
-| Educational services | 5,366 ± 819 | $60.0M ± $12.4M | $73.3M ± $18.2M | 4.1% ± 0.9 pp | 48.4% ± 10.0 pp | — | pass / fail | pass / fail |
-| Health care and social assistance | 9,323 ± 937 | $116.4M ± $16.3M | $105.2M ± $16.5M | 5.6% ± 0.8 pp | 22.4% ± 3.1 pp | 36.3% ± 5.1 pp | pass / pass | pass / pass |
-| Arts, entertainment, and recreation | 2,489 ± 452 | $32.0M ± $8.8M | $35.1M ± $13.0M | 11.2% ± 3.1 pp | — | — | fail / fail | fail / fail |
-| Accommodation and food services | 14,793 ± 1,265 | $200.1M ± $23.3M | $196.3M ± $32.0M | 12.8% ± 1.5 pp | 24.6% ± 2.9 pp | 31.2% ± 3.6 pp | pass / pass | pass / pass |
-| Other services (except government and government enterprises) | 3,170 ± 656 | $52.1M ± $12.4M | $47.5M ± $13.4M | 9.4% ± 2.2 pp | 32.6% ± 7.7 pp | 57.8% ± 13.7 pp | pass / pass | pass / pass |
-| Government and government enterprises | 9,933 ± 969 | $116.3M ± $17.3M | $129.9M ± $24.1M | 3.0% ± 0.4 pp | n/a | n/a | n/a / n/a | n/a / n/a |
+| Administrative and support and waste management and remediation services | 3,020 ± 508 | $36.4M ± $8.2M | $35.9M ± $9.9M | 4.9% ± 1.1 pp | 16.4% ± 3.7 pp | 25.0% ± 5.6 pp | pass / pass | pass / pass |
+| Educational services | 5,366 ± 819 | $60.0M ± $12.4M | $73.3M ± $18.2M | 4.5% ± 0.9 pp | 52.1% ± 10.8 pp | — | pass / fail | pass / fail |
+| Health care and social assistance | 9,323 ± 937 | $116.4M ± $16.3M | $105.2M ± $16.5M | 6.0% ± 0.8 pp | 24.1% ± 3.4 pp | 39.0% ± 5.5 pp | pass / pass | pass / pass |
+| Arts, entertainment, and recreation | 2,489 ± 452 | $32.0M ± $8.8M | $35.1M ± $13.0M | 12.0% ± 3.3 pp | — | — | fail / fail | fail / fail |
+| Accommodation and food services | 14,793 ± 1,265 | $200.1M ± $23.3M | $196.3M ± $32.0M | 13.8% ± 1.6 pp | 26.4% ± 3.1 pp | 33.6% ± 3.9 pp | pass / pass | pass / pass |
+| Other services (except government and government enterprises) | 3,170 ± 656 | $52.1M ± $12.4M | $47.5M ± $13.4M | 10.2% ± 2.4 pp | 35.1% ± 8.3 pp | 62.2% ± 14.7 pp | pass / pass | pass / pass |
+| Government and government enterprises | 9,933 ± 969 | $116.3M ± $17.3M | $129.9M ± $24.1M | 3.2% ± 0.5 pp | n/a | n/a | n/a / n/a | n/a / n/a |
 
 
 ## 5. Commuter leakage
@@ -148,10 +151,10 @@ All rows use 2020–2024 unless the row says otherwise. "Beyond MOE" = the chang
 | headline | headline | 1.0000 | 72,897 ± 3,050 | $953.9M ± $53.8M | no |
 | passthrough | p=0 base=resident_pce | 1.0000 | 72,897 ± 3,050 | $953.9M ± $53.8M | no |
 | passthrough | p=0 base=gdp | 1.0000 | 72,897 ± 3,050 | $953.9M ± $53.8M | no |
-| passthrough | p=0.5 base=resident_pce | 1.0240 | 76,315 ± 3,112 | $1,020.5M ± $56.5M | yes |
-| passthrough | p=0.5 base=gdp | 1.0162 | 73,689 ± 3,083 | $998.5M ± $55.6M | no |
-| passthrough | p=1 base=resident_pce | 1.0518 | 78,965 ± 3,210 | $1,102.3M ± $59.6M | yes |
-| passthrough | p=1 base=gdp | 1.0340 | 77,526 ± 3,143 | $1,049.5M ± $57.6M | yes |
+| passthrough | p=0.5 base=resident_pce | 1.0259 | 76,318 ± 3,112 | $1,026.2M ± $56.7M | yes |
+| passthrough | p=0.5 base=gdp | 1.0175 | 74,116 ± 3,106 | $1,002.1M ± $55.8M | no |
+| passthrough | p=1 base=resident_pce | 1.0564 | 79,056 ± 3,195 | $1,116.3M ± $60.2M | yes |
+| passthrough | p=1 base=gdp | 1.0368 | 77,547 ± 3,147 | $1,058.0M ± $57.9M | yes |
 | outliers_included | outliers_included | 1.0000 | 73,479 ± 3,014 | $974.9M ± $51.5M | no |
 | hours_rule | hours_rule | 1.0000 | 81,761 ± 3,144 | $1,639.3M ± $66.1M | yes |
 | la_residents_only | la_residents_only | 1.0000 | 71,471 ± 2,930 | $934.0M ± $53.1M | no |
